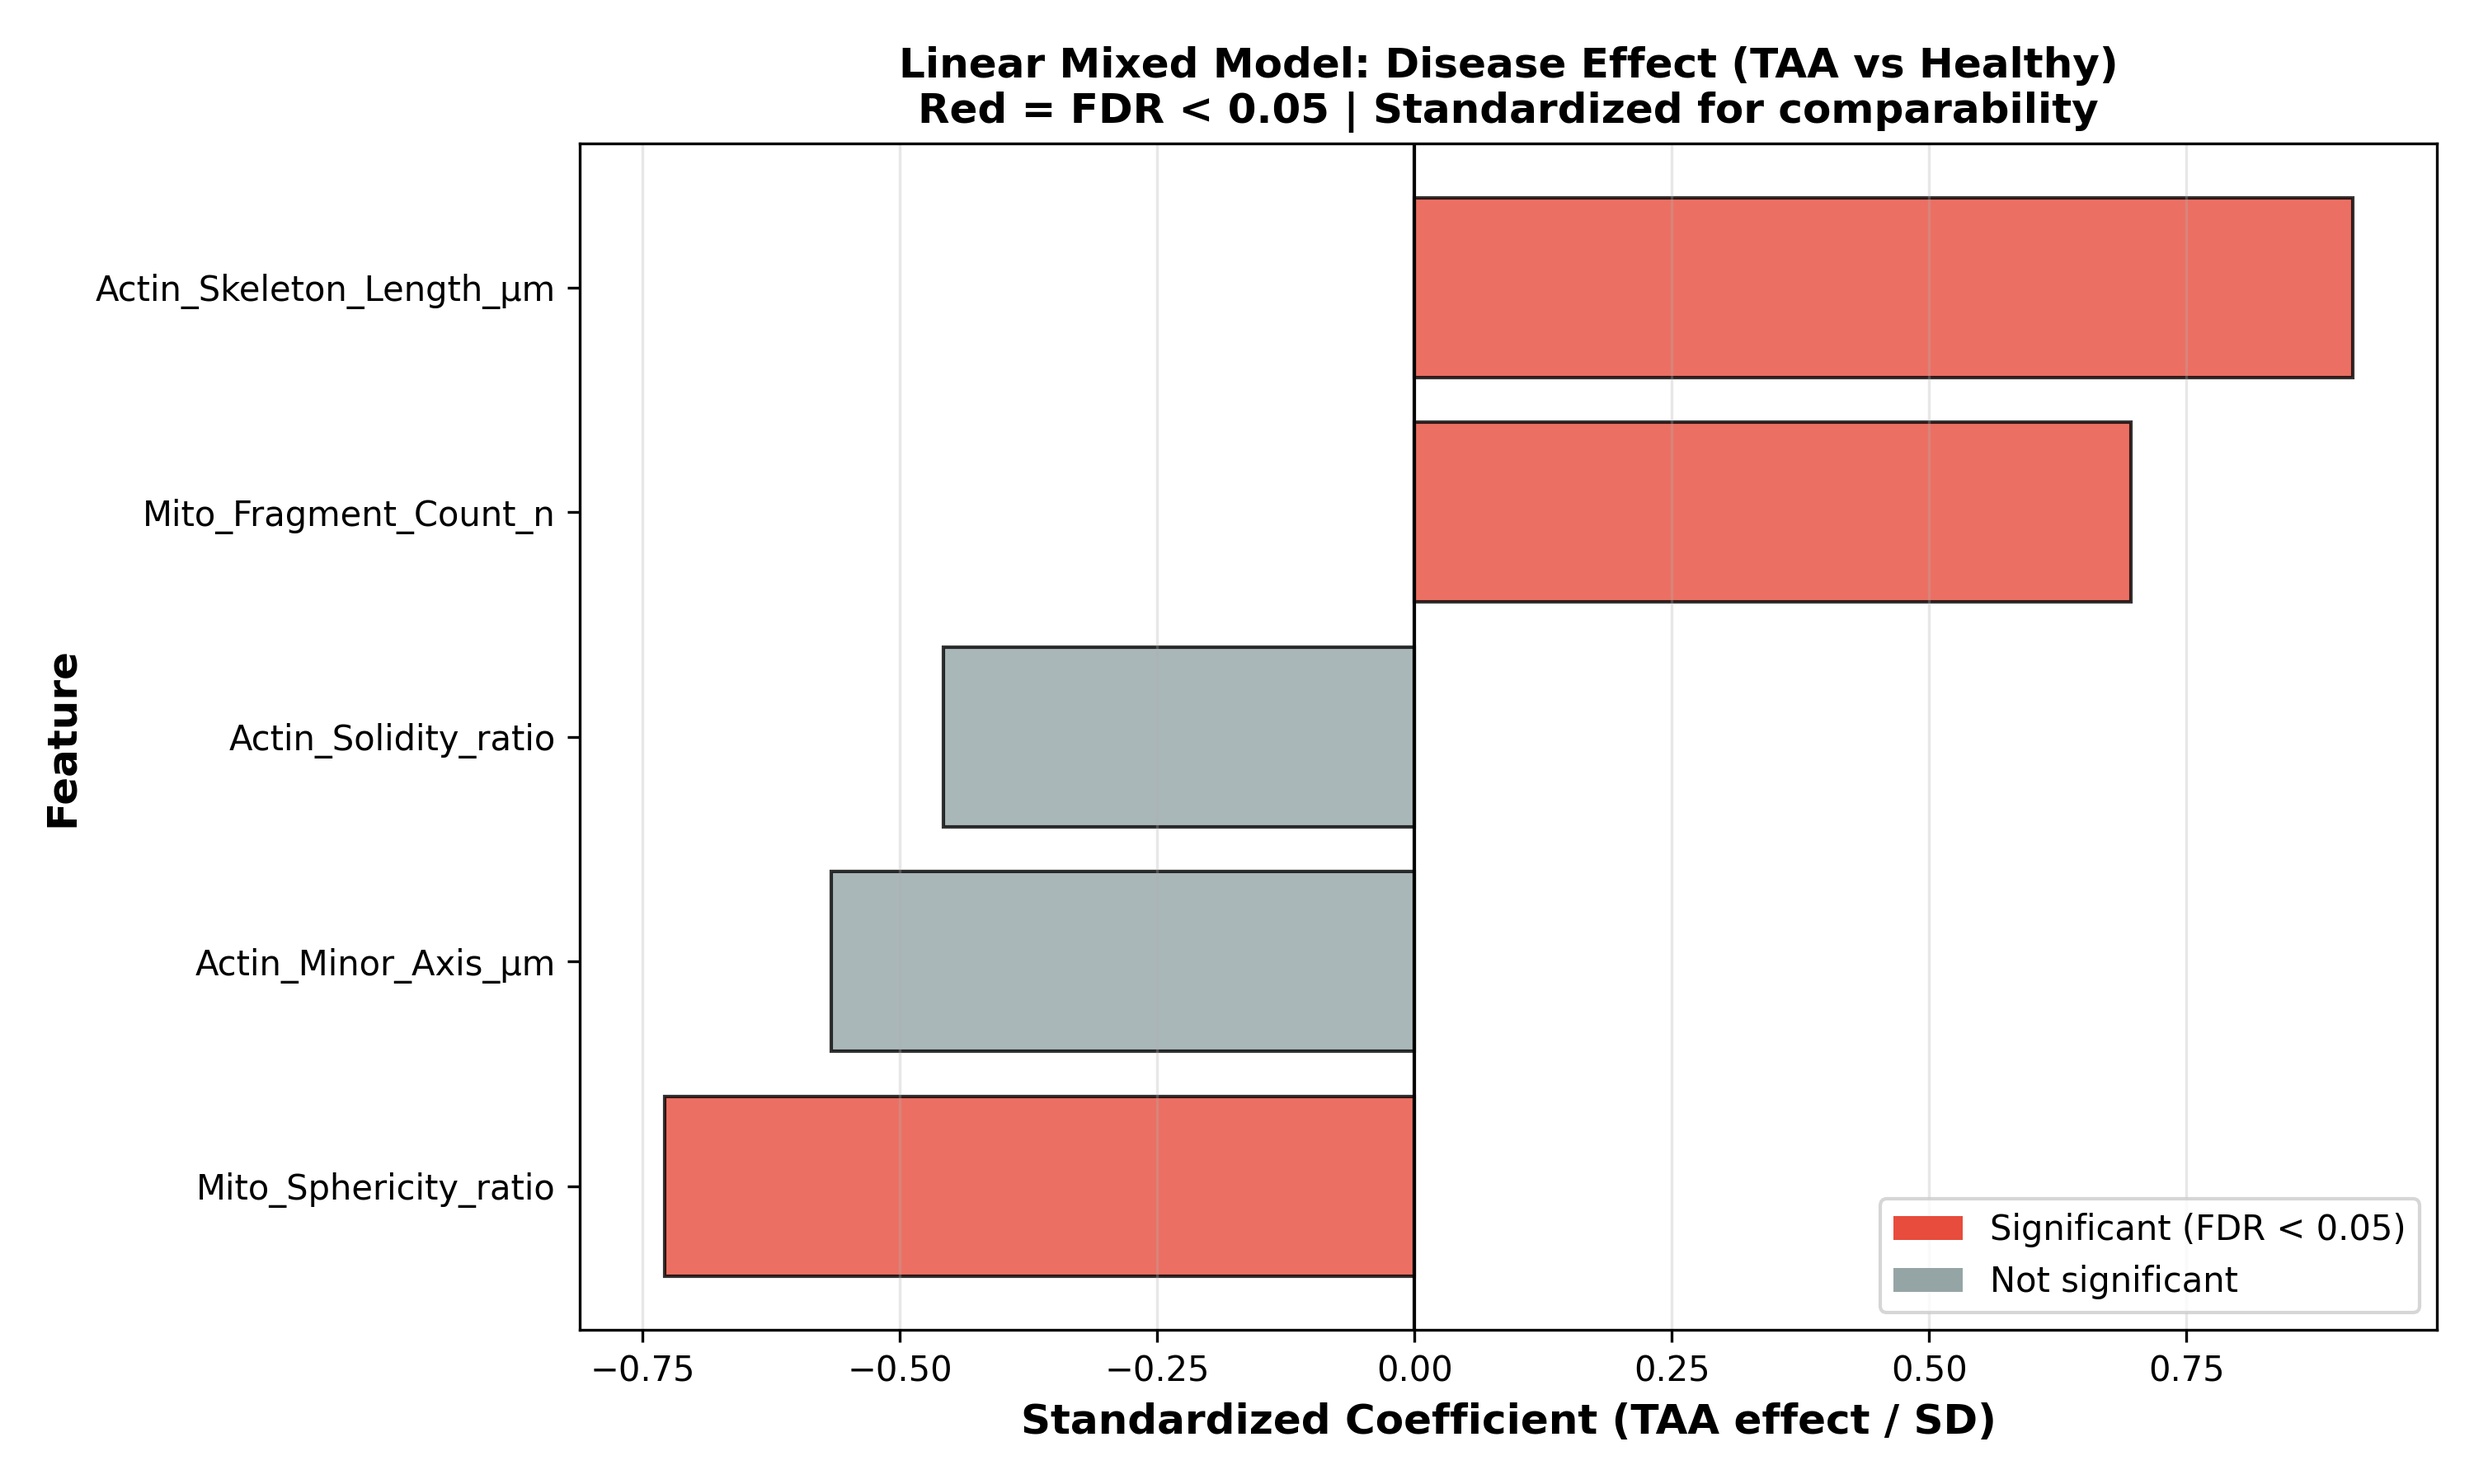
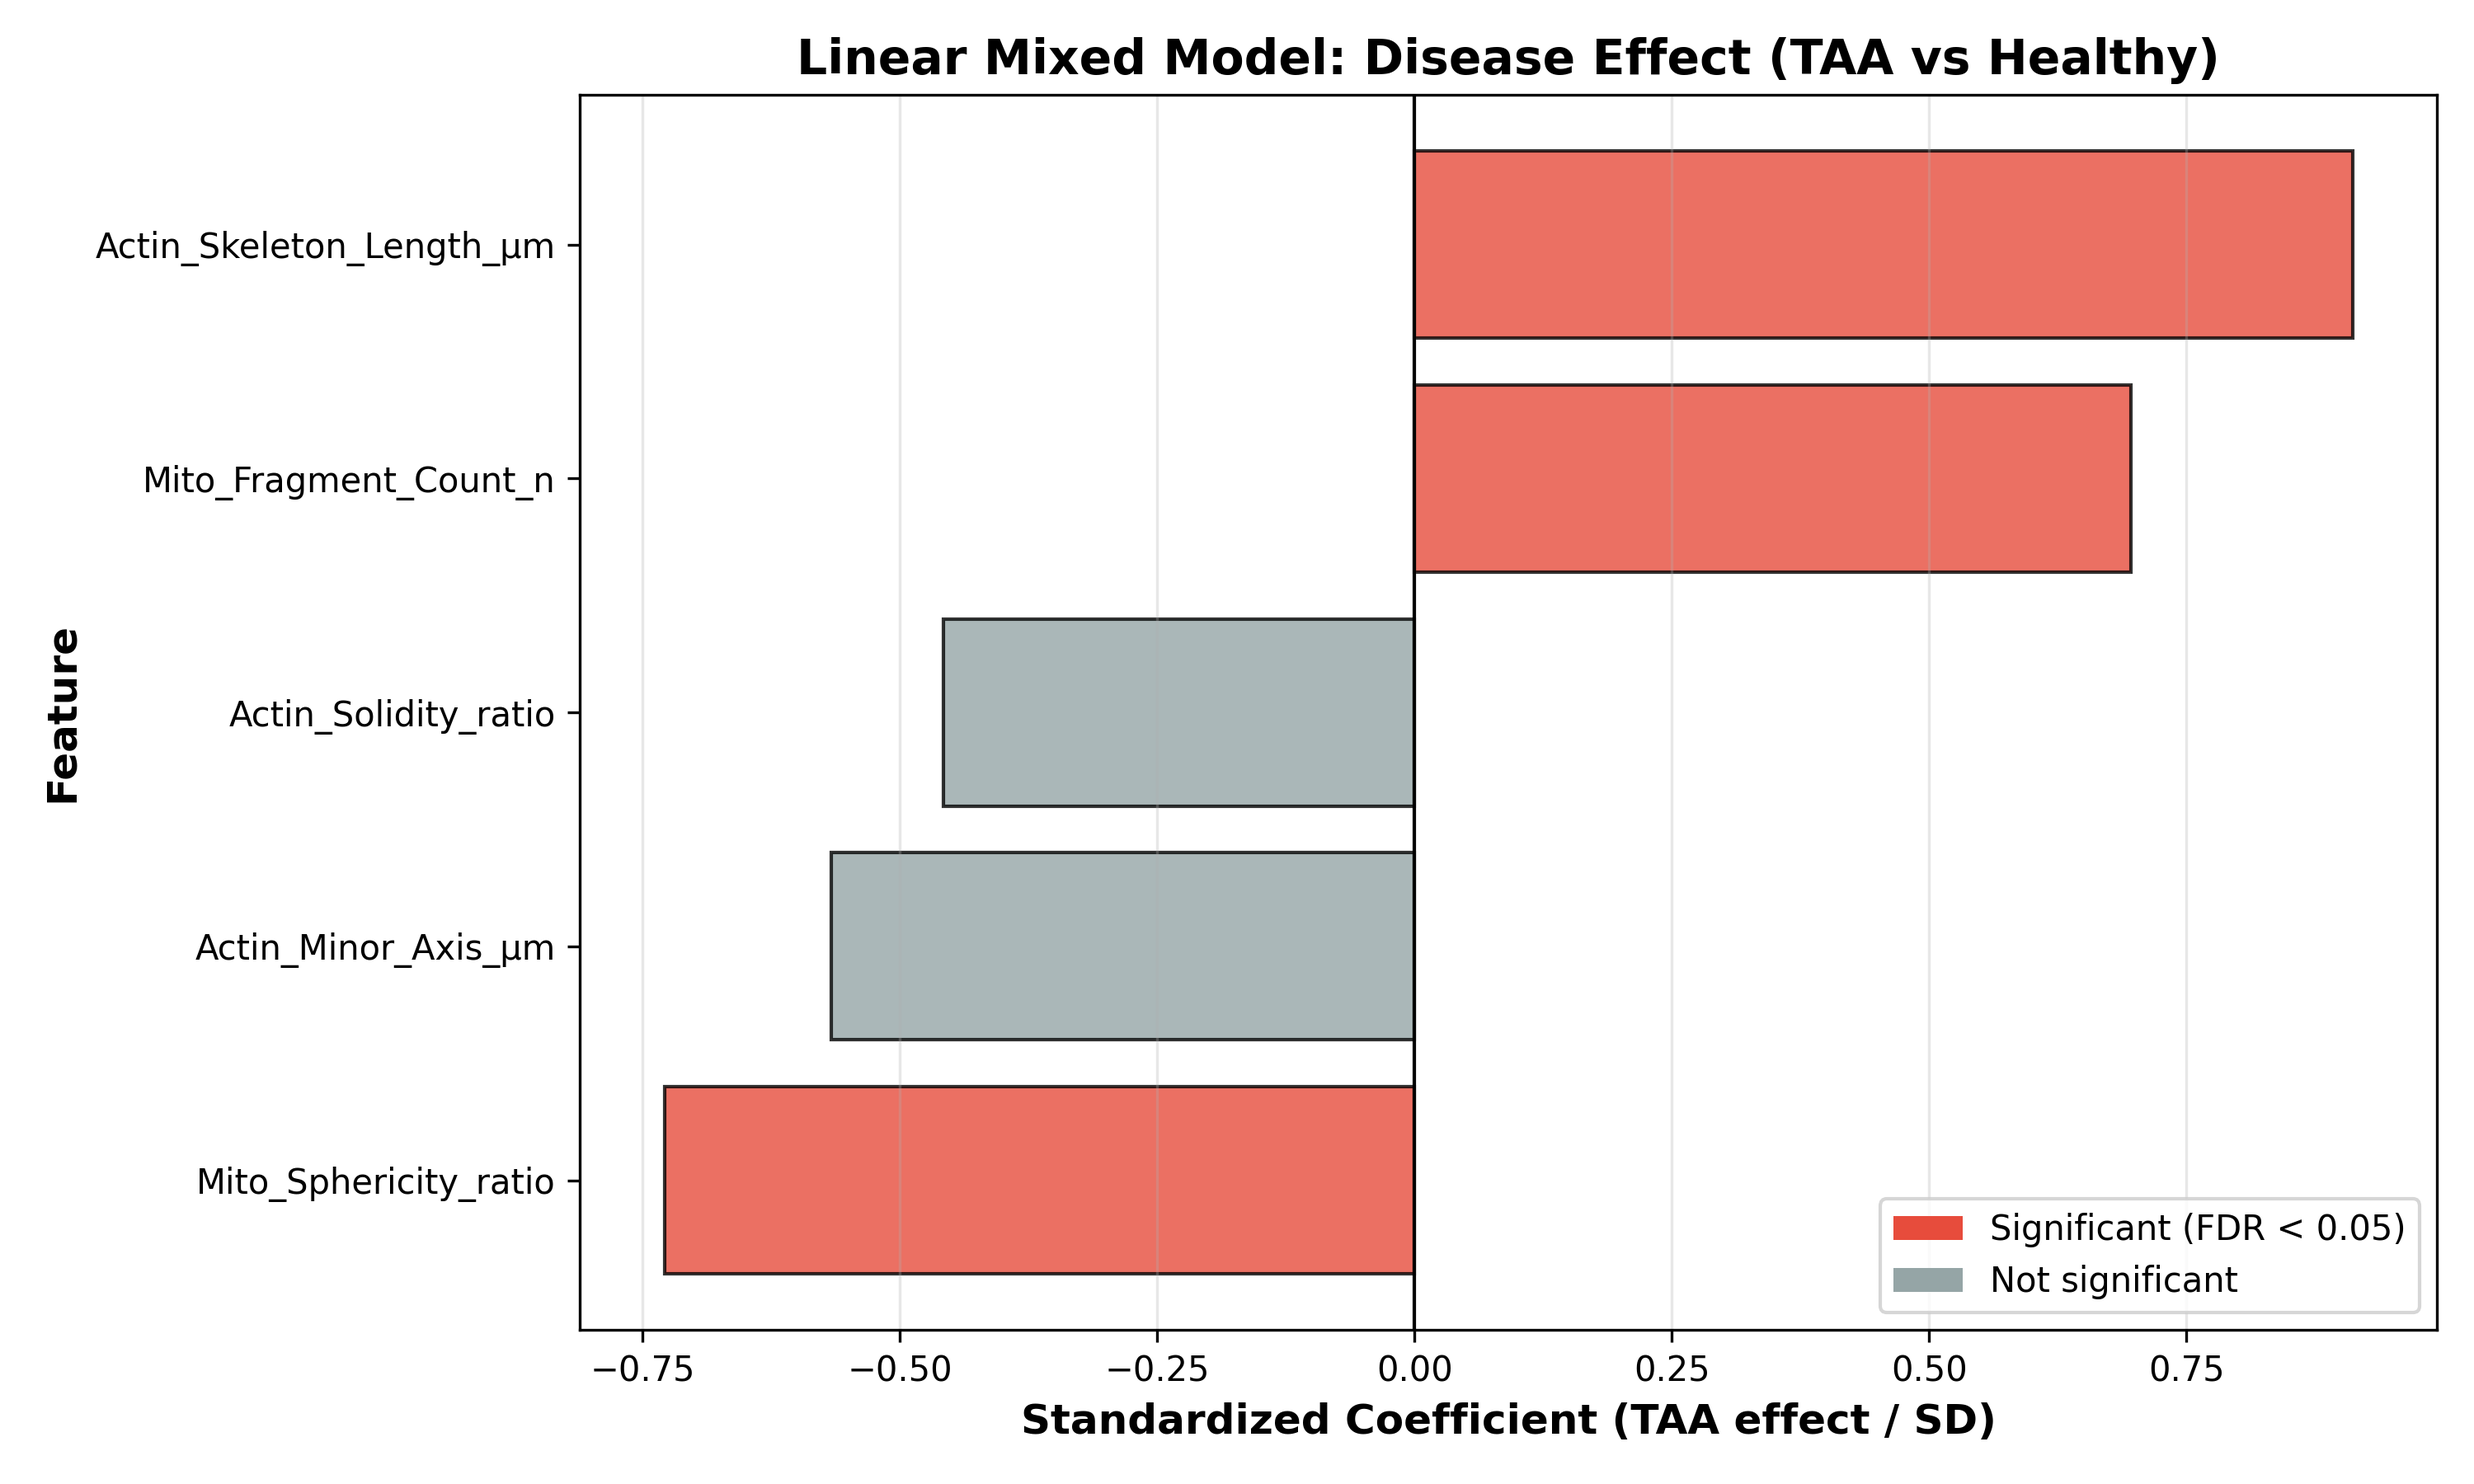
Update interaction plot to use seaborn pointplot
Cleaner visualization with:
- Point plot showing means with error bars
- Dodge for side-by-side comparison
- Green=Healthy, Red=TAA color scheme

diff --git a/src/analysis/src/analysis/LinearMixedModel.py b/src/analysis/src/analysis/LinearMixedModel.py
@@ -289,8 +289,7 @@ def main():
     ax.axvline(x=0, color='black', linewidth=1)
     ax.set_xlabel('Standardized Coefficient (TAA effect / SD)', fontsize=12, fontweight='bold')
     ax.set_ylabel('Feature', fontsize=12, fontweight='bold')
-    ax.set_title('Linear Mixed Model: Disease Effect (TAA vs Healthy)\nRed = FDR < 0.05 | Standardized for comparability', 
-                 fontsize=12, fontweight='bold')
+    ax.set_title('Linear Mixed Model: Disease Effect (TAA vs Healthy)', fontsize=14, fontweight='bold')
     ax.grid(axis='x', alpha=0.3)
     
     # Add legend
@@ -354,43 +353,33 @@ def main():
         plt.savefig(f'{OUTPUT_DIR}/lmm_significant_boxplots.png', dpi=300)
         print(f"Saved: {OUTPUT_DIR}/lmm_significant_boxplots.png")
     
-    # 8d. Interaction plot for Actin_Solidity (if significant)
+    # 8d. Interaction plot using seaborn pointplot (cleaner visualization)
     if 'Interaction_sig' in results_df.columns:
         int_sig = results_df[results_df['Interaction_sig'] == True]['Feature'].tolist()
         if len(int_sig) > 0:
-            fig, axes = plt.subplots(1, len(int_sig), figsize=(6*len(int_sig), 5))
-            if len(int_sig) == 1:
-                axes = [axes]
-            
-            for i, feat in enumerate(int_sig):
-                ax = axes[i]
+            for feat in int_sig:
+                plt.figure(figsize=(6, 5))
                 
-                # Create interaction plot
-                for disease in ['Healthy', 'TAA']:
-                    subset = df[df['Disease'] == disease]
-                    means = subset.groupby('Collagen')[feat].mean()
-                    sems = subset.groupby('Collagen')[feat].sem()
-                    
-                    x = [0, 1] if disease == 'Healthy' else [0.1, 1.1]
-                    color = '#3498DB' if disease == 'Healthy' else '#E74C3C'
-                    
-                    ax.errorbar(['No Coll', '+Coll'], 
-                               [means.get('NoCollagen', 0), means.get('Collagen', 0)],
-                               yerr=[sems.get('NoCollagen', 0), sems.get('Collagen', 0)],
-                               marker='o', markersize=10, capsize=5, linewidth=2,
-                               color=color, label=disease)
+                # Create Treatment column for plotting
+                df['Treatment'] = df['Collagen'].map({'Collagen': '+Collagen', 'NoCollagen': 'No Collagen'})
+                
+                # Point plot with error bars
+                sns.pointplot(data=df, x='Treatment', y=feat, hue='Disease', 
+                             dodge=True, markers=['o', 's'], capsize=.1, errwidth=1.5, 
+                             palette={'Healthy': '#2ecc71', 'TAA': '#e74c3c'})
                 
                 fdr_p = results_df[results_df['Feature'] == feat]['Interaction_FDR'].values[0]
-                ax.set_title(f'{feat}\nInteraction FDR p = {fdr_p:.4f} *', fontsize=11, fontweight='bold')
-                ax.set_xlabel('Collagen Treatment', fontsize=11)
-                ax.set_ylabel(f'Mean {feat}', fontsize=11)
-                ax.legend(title='Disease', fontsize=10)
-                ax.grid(alpha=0.3)
-            
-            plt.suptitle('Disease × Collagen Interaction', fontsize=14, fontweight='bold')
-            plt.tight_layout()
-            plt.savefig(f'{OUTPUT_DIR}/lmm_interaction_plot.png', dpi=300)
-            print(f"Saved: {OUTPUT_DIR}/lmm_interaction_plot.png")
+                plt.title(f'Interaction Effect: {feat}\n(FDR p = {fdr_p:.4f})', fontsize=12, fontweight='bold')
+                plt.ylabel(feat)
+                plt.xlabel('')
+                plt.legend(title='Group')
+                plt.grid(True, axis='y', alpha=0.3)
+                
+                plt.tight_layout()
+                safe_feat = feat.replace('/', '_').replace('²', '2').replace('³', '3').replace('µ', 'u')
+                plt.savefig(f'{OUTPUT_DIR}/lmm_interaction_{safe_feat}.png', dpi=300)
+                plt.close()
+                print(f"Saved: {OUTPUT_DIR}/lmm_interaction_{safe_feat}.png")
     
     # 8e. Save summary table for thesis
     summary_table = results_df[['Feature', 'Disease_TAA_coef', 'Disease_TAA_pval', 'Disease_TAA_FDR', 'ICC']].copy()
